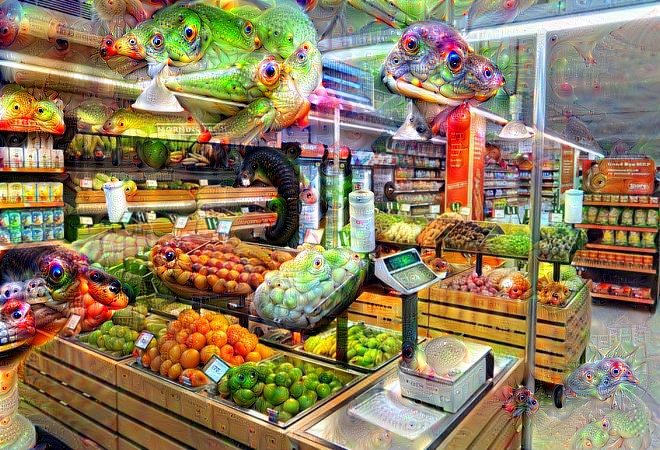
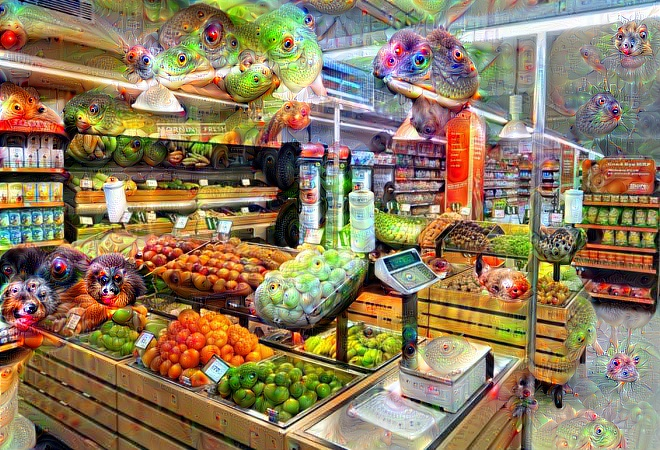
Maximize outputs from top features in guide image

diff --git a/deep_dream.py b/deep_dream.py
@@ -7,23 +7,17 @@ import matplotlib.pyplot as plt
 from PIL import Image
 import argparse
 import os
+import tqdm
 import scipy.ndimage as nd
 from utils import deprocess, preprocess, clip
 
 
-def dream(image, model, iterations, lr, guide_image=None):
+def dream(image, model, iterations, lr, guide_features=None):
     image = Variable(torch.cuda.FloatTensor(image), requires_grad=True)
-    # Extract guide features if guide image is available
-    if guide_image is not None:
-        h, w = image.shape[-2:]
-        guide_image = preprocess(guide_image.resize((w, h))).unsqueeze(0)
-        guide_image = Variable(guide_image.type(torch.cuda.FloatTensor))
-        guide_features = model(guide_image).detach().data
-    # Update image for n iterations
     for i in range(iterations):
         model.zero_grad()
         out = model(image)
-        loss = out.norm() - nn.MSELoss()(out, guide_features) if guide_image is not None else out.norm()
+        loss = torch.index_select(out, 1, guide_features).norm() if guide_features is not None else out.norm()
         loss.backward()
         ratio = np.abs(image.grad.data.cpu().numpy()).mean()
         norm_lr = lr / ratio
@@ -36,22 +30,31 @@ def dream(image, model, iterations, lr, guide_image=None):
 def deep_dream(image, model, iterations, lr, octave_scale, num_octaves, guide_image=None):
     image = preprocess(image).unsqueeze(0)
 
+    guide_features = None
+    if guide_image is not None:
+        # Extract interesting features from guide image
+        guide_image = preprocess(guide_image).unsqueeze(0)
+        guide_image = Variable(guide_image.type(torch.cuda.FloatTensor))
+        out = model(guide_image).cpu().data.numpy().squeeze()
+        out = out.reshape((out.shape[0], -1))
+        guide_features = torch.cuda.LongTensor(np.argsort(out.mean(axis=1))[-10:])
+
     # Extract octaves for each dimension
     octaves = [image.cpu().data.numpy()]
     for i in range(num_octaves - 1):
         octaves.append(nd.zoom(octaves[-1], (1, 1, 1.0 / octave_scale, 1.0 / octave_scale), order=1))
 
     detail = np.zeros_like(octaves[-1])
-    for octave, octave_base in enumerate(octaves[::-1]):
-        h, w = octave_base.shape[-2:]
-        # Upsample detail to new dimension
+    for octave, octave_base in enumerate(tqdm.tqdm(octaves[::-1], desc="Dreaming")):
         if octave > 0:
+            # Upsample detail to new dimension
+            h, w = octave_base.shape[-2:]
             dh, dw = detail.shape[-2:]
             detail = nd.zoom(detail, (1, 1, 1.0 * h / dh, 1.0 * w / dw), order=1)
         # Add deep dream detail from previous octave to new base
-        input_oct = octave_base + detail
+        input_image = octave_base + detail
         # Get new deep dream image
-        dreamed_image = dream(input_oct, model, iterations, lr, guide_image)
+        dreamed_image = dream(input_image, model, iterations, lr, guide_features)
         # Extract deep dream details
         detail = dreamed_image - octave_base
 
@@ -61,7 +64,7 @@ def deep_dream(image, model, iterations, lr, octave_scale, num_octaves, guide_im
 if __name__ == "__main__":
     parser = argparse.ArgumentParser()
     parser.add_argument("--input_image", type=str, default="images/supermarket.jpg", help="path to input image")
-    parser.add_argument("--guide_image", type=str, default="images/dog.jpg", help="path to guide image")
+    parser.add_argument("--guide_image", type=str, default=None, help="path to guide image")
     parser.add_argument("--iterations", default=15, help="number of gradient ascent steps per octave")
     parser.add_argument("--lr", default=0.01, help="learning rate")
     parser.add_argument("--octave_scale", default=1.4, help="image scale between octaves")

diff --git a/README.md b/README.md
@@ -2,7 +2,12 @@
 PyTorch implementation of Google's Deep Dream algorithm.
 
 ## Example
-`python3 deep_dream.py --image_path images/supermarket.jpg --guide_image images/dog.jpg`
+`python3 deep_dream.py --image_path images/supermarket.jpg`
 <p align="center">
     <img src="outputs/output_supermarket.jpg" width="512"\>
+</p>
+
+`python3 deep_dream.py --image_path images/dog.jpg`
+<p align="center">
+    <img src="outputs/output_dog.jpg" width="512"\>
 </p>
